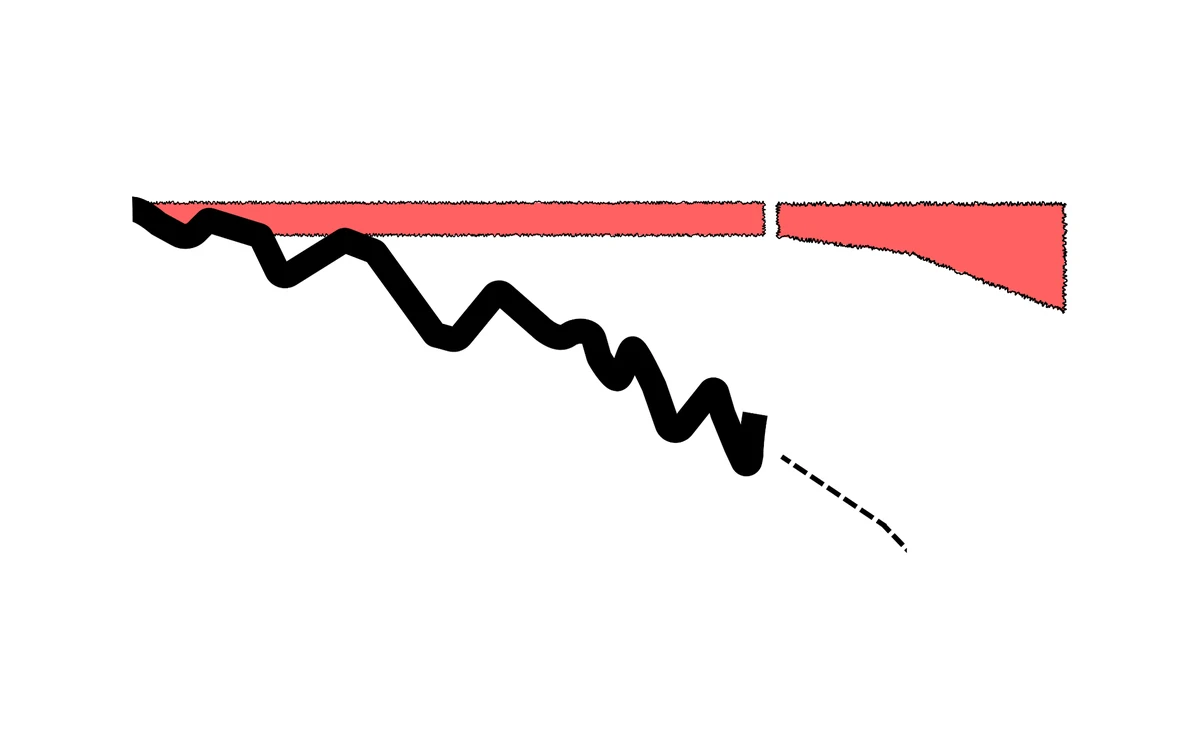
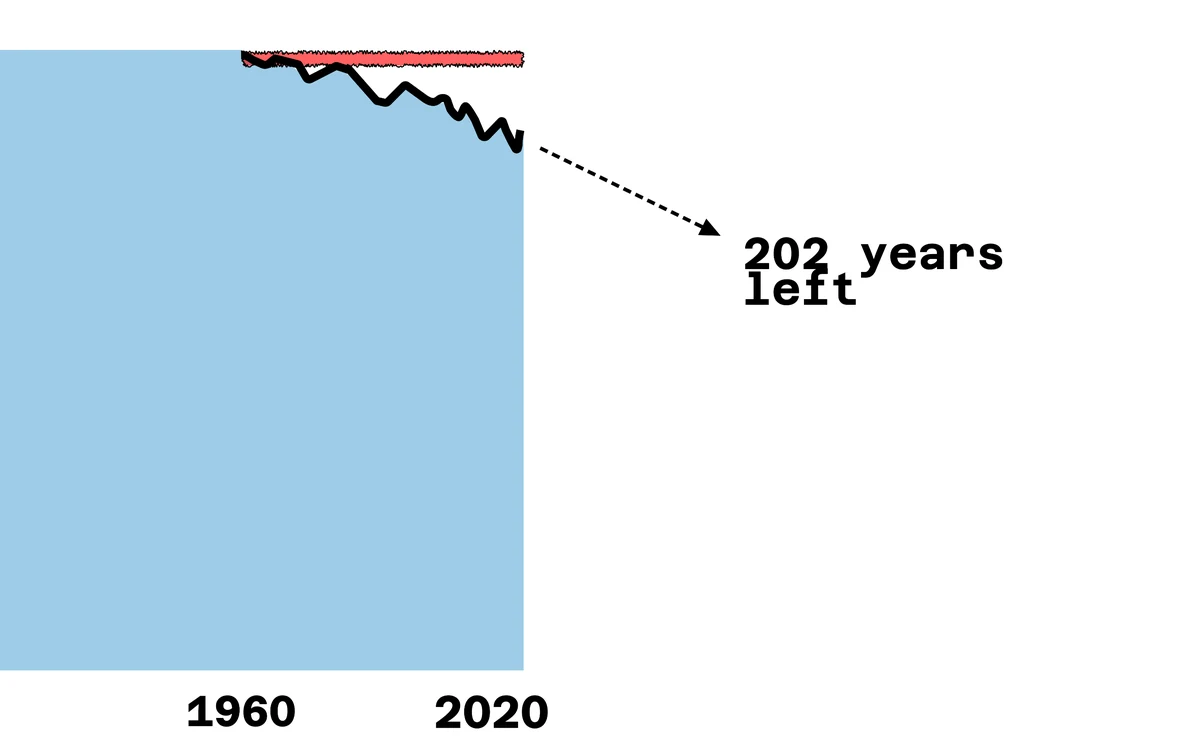
California groundwater: open straight into the scroll piece; cover image is the block with the curve and "202 years left"
- Remove the cover section (title plus curve picture) so the page opens on the first scene; keep the title as a visually hidden h1 and a "scroll" hint that fades on scroll.
- New gw-cover.webp (home tile, /climate-data/ card, og:image): the block with the curve, the dashed arrow and "202 years left".
- Drop the unused gw-cover-art image.

Claude-Session: https://claude.ai/code/session_01UiK2EaSNaXWSvesmmap9YV

diff --git a/climate-data/california-groundwater/index.html b/climate-data/california-groundwater/index.html
@@ -48,15 +48,11 @@ html,body{margin:0;background:var(--bg);color:var(--ink);font-family:'Azeret Mon
 .hint{position:absolute;left:50%;bottom:calc(14px + env(safe-area-inset-bottom,0px));transform:translateX(-50%);font:12px 'Azeret Mono',ui-monospace,monospace;color:#999;pointer-events:none}
 
 /* ---- page chrome around the piece ---- */
-html{scroll-padding-top:0}
+.sr-only{position:absolute;width:1px;height:1px;margin:-1px;padding:0;overflow:hidden;clip:rect(0 0 0 0);white-space:nowrap;border:0}
+#gwHint{z-index:5;transition:opacity .4s}
 .gw-bar{position:fixed;top:0;left:0;right:0;z-index:100;display:flex;justify-content:space-between;align-items:center;gap:12px;padding:max(14px,env(safe-area-inset-top,0px)) max(16px,3vw) 0;pointer-events:none;font:400 12px/1 'Azeret Mono',ui-monospace,monospace;letter-spacing:.04em;text-transform:uppercase}
 .gw-bar a{pointer-events:auto;color:#000;text-decoration:none;background:rgba(255,255,255,.9);border:1px solid #000;padding:9px 12px;-webkit-backdrop-filter:blur(6px);backdrop-filter:blur(6px)}
 .gw-bar a:hover,.gw-bar a:focus-visible{background:#000;color:#fff;outline:none}
-.cover{flex-direction:column;align-items:flex-start;justify-content:center;gap:clamp(18px,4vh,44px);padding-top:max(72px,10vh);padding-bottom:64px}
-.cover .intro-x{display:none}
-.cover-eyebrow{margin:0 0 1.2em !important;font:400 12px/1 'Azeret Mono',ui-monospace,monospace !important;letter-spacing:.06em;text-transform:uppercase;color:var(--muted) !important}
-.cover h1{max-width:22ch;font-size:clamp(28px,5.4vw,84px)}
-.cover-art{display:block;width:min(100%,1000px);height:auto;max-height:36vh;object-fit:contain;object-position:left center}
 .gw-methods{position:relative;background:#fff;color:#000;border-top:1px solid #000;padding:clamp(56px,10vh,120px) max(24px,6vw) 0}
 .gw-methods .in{max-width:72ch}
 .gw-methods h2{margin:2.4em 0 .7em;font:400 clamp(18px,2.4vw,26px)/1.05 'Archivo Black',Impact,sans-serif;text-transform:uppercase}
@@ -87,18 +83,12 @@ html{scroll-padding-top:0}
 
 <header class="gw-bar"><a href="/">Owen Mulhern</a><a href="#methods">Methods</a></header>
 <noscript><p style="padding:72px 24px 0;font:14px/1.6 'Azeret Mono',monospace">This piece needs JavaScript to scroll. The methods and sources are below, and on <a href="/groundwater-methods/">the full methods page</a>.</p></noscript>
-<section class="intro cover" id="top">
-  <div class="cover-text">
-    <p class="cover-eyebrow">Independent work &middot; 2026</p>
-    <h1>Groundwater in California&rsquo;s Central Valley</h1>
-    <p>The heart of its agriculture</p>
-  </div>
-  <img class="cover-art" src="/assets/groundwater/gw-cover-art.webp" width="1600" height="609" alt="A thick black curve of Central Valley groundwater storage falling from left to right beneath a red band that marks what is lost, with a dashed line continuing the fall." decoding="async">
-  <div class="hint">scroll</div>
-</section>
+<h1 class="sr-only">Groundwater in California&rsquo;s Central Valley: the heart of its agriculture</h1>
+<a id="top"></a>
 
 <!-- ================= STAGE 1 ================= -->
 <section class="stage" id="stage1">
+<div class="hint" id="gwHint">scroll</div>
 <div class="world" id="world1">
 <svg viewBox="0 0 6135 5440" xmlns="http://www.w3.org/2000/svg" xmlns:xlink="http://www.w3.org/1999/xlink" fill="none">
 <defs>
@@ -1739,6 +1729,7 @@ document.fonts.addEventListener&&document.fonts.addEventListener('loadingdone',(
 window.__tl1=tl1; window.__tl2=tl2; window.__T1=T1; window.__T2=T2; window.__ready=true;
 }
 </script>
+<script>(function(){var h=document.getElementById('gwHint');if(!h)return;function f(){h.style.opacity=window.scrollY>40?0:1}addEventListener('scroll',f,{passive:true});f()})();</script>
 
 </body>
 </html>
